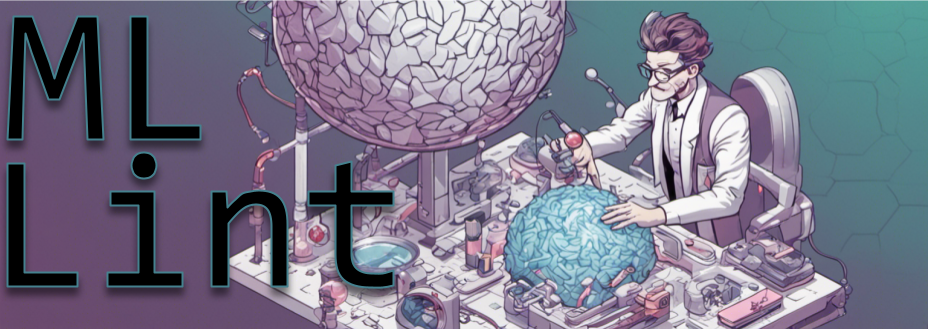
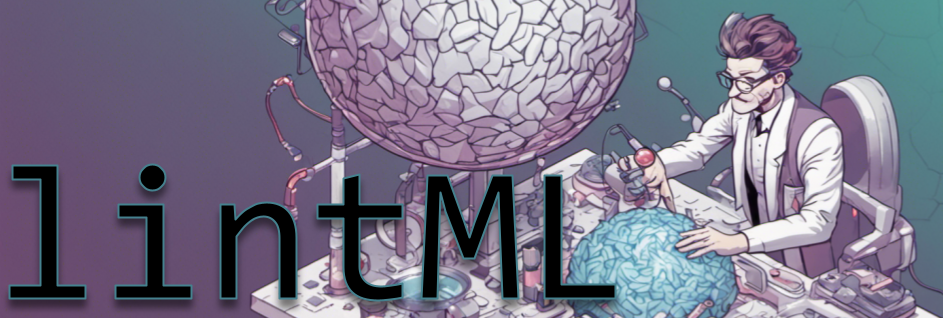
fix name collision

diff --git a/lintML/lintML.py b/lintML/lintML.py
@@ -11,7 +11,7 @@ from report import Report
 from utils import is_valid_directory
 
 
-class MLLint:
+class lintML:
     def __init__(self, indir, outfile="obs/observation.avro"):
         self.indir = Path(indir)
         self.outfile = Path(outfile)
@@ -52,7 +52,7 @@ class MLLint:
 
 if __name__ == "__main__":
     parser = argparse.ArgumentParser(
-        prog="MLLint",
+        prog="lintML",
         description="Linter for ML training code",
         epilog="Have any rules we should add?",
     )
@@ -67,7 +67,7 @@ if __name__ == "__main__":
         "--full-report", action="store_true", help="Generate a full report"
     )
     args = parser.parse_args()
-    m = MLLint(indir=Path(args.dir).resolve())
+    m = lintML(indir=Path(args.dir).resolve())
     loop = asyncio.get_event_loop()
     creds, code_findings = loop.run_until_complete(m.get_observations())
     print(m.generate_report(creds, code_findings, args.full_report))

diff --git a/lintML/semgrep.py b/lintML/semgrep.py
@@ -63,7 +63,7 @@ async def run_semgrep(client: docker.DockerClient, dir: Path) -> List[Observatio
         Any exceptions raised by Docker operations, JSON decoding, or Observation creation.
     """
     tmpdir = await semgrep_prep(dir)
-    rule_root = "https://raw.githubusercontent.com/JosephTLucas/ml-lint/main/MLLint/semgrep_rules/ready/"
+    rule_root = "https://raw.githubusercontent.com/JosephTLucas/lintML/main/lintML/semgrep_rules/ready/"
     rules = ["",
              "huggingface-remote-code.yaml",
              'pickles.yaml',

diff --git a/README.md b/README.md
@@ -1,14 +1,14 @@
-# MLLint
+# lintML
 
 ![](banner.png)
 
 _The security linter for environments that shouldn't need linting._
 
-Linters (and let's be honest with ourselves, any measures of code quality) have long been reserved for production environments. But we've increasingly seen that the most impactful machine learning attacks happen during **training time.** Traditional linters often rely on CI/CD pipelines or git commit hooks and are often opinionated on things like code formatting. However, many research projects never touch git until they are far down the path of productionization and researchers write some of the sloppiest code known to humankind (in the name of science). So how can we arm researchers with quick sanity checks for their research code? MLLint.
+Linters (and let's be honest with ourselves, any measures of code quality) have long been reserved for production environments. But we've increasingly seen that the most impactful machine learning attacks happen during **training time.** Traditional linters often rely on CI/CD pipelines or git commit hooks and are often opinionated on things like code formatting. However, many research projects never touch git until they are far down the path of productionization and researchers write some of the sloppiest code known to humankind (in the name of science). So how can we arm researchers with quick sanity checks for their research code? lintML.
 
 ## Philosophy
 
-MLLint is a simple python script (backed by dockerized security tools) that can give researchers and security teams some quick insight into potential risk in machine learning research projects. It checks for valid, plaintext credentials and uses static analysis to identify risky code patterns.
+lintML is a simple python script (backed by dockerized security tools) that can give researchers and security teams some quick insight into potential risk in machine learning research projects. It checks for valid, plaintext credentials and uses static analysis to identify risky code patterns.
 
 Things we check for:
 
@@ -27,28 +27,28 @@ _(WIP)_
 Things we **don't** check for:
 - Formatting 
 
-Many linters measure quality by the breadth of rules, leading to complicated CI/CD configurations where we're ignoring their flashing lights. With a linter for research and machine learning training code, we want to be high signal/low noise. Every rule represents a real exploitable vulnerability that you should _seriously_ consider engineering around to preserve the integrity of your research. MLLint shouldn't distract you from getting stuff done. Ideally, most times when you run MLLint, you'll have no alerts. :thumbsup:
+Many linters measure quality by the breadth of rules, leading to complicated CI/CD configurations where we're ignoring their flashing lights. With a linter for research and machine learning training code, we want to be high signal/low noise. Every rule represents a real exploitable vulnerability that you should _seriously_ consider engineering around to preserve the integrity of your research. lintML shouldn't distract you from getting stuff done. Ideally, most times when you run lintML, you'll have no alerts. :thumbsup:
 
 ## Compatibility
 
-Currently MLLint is focused on `.py` and `.ipynb` files (based solely on the author's personal preferences). TruffleHog supported both of these natively, but MLLint uses [nbconvert](https://nbconvert.readthedocs.io/en/latest/) under the hood to support Semgrep on `.ipynb`.
+Currently lintML is focused on `.py` and `.ipynb` files (based solely on the author's personal preferences). TruffleHog supported both of these natively, but lintML uses [nbconvert](https://nbconvert.readthedocs.io/en/latest/) under the hood to support Semgrep on `.ipynb`.
 
 ## Foundations
 
-The checks in MLLint are powered by [TruffleHog](https://github.com/trufflesecurity/trufflehog) and [Semgrep](https://semgrep.dev/). Since MLLint wraps these tools in their docker containers, the first execution may take longer as those containers are initially pulled.
+The checks in lintML are powered by [TruffleHog](https://github.com/trufflesecurity/trufflehog) and [Semgrep](https://semgrep.dev/). Since lintML wraps these tools in their docker containers, the first execution may take longer as those containers are initially pulled.
 
-MLLint uses [Apache Avro](https://avro.apache.org/) for data serialization to support fast operations and evolving schemas.
+lintML uses [Apache Avro](https://avro.apache.org/) for data serialization to support fast operations and evolving schemas.
 
 ## Getting Started
 
 1. `pip install -r requirements.txt`
-2. `python MLLint.py <your directory>` -- If you don't specify a directory, MLLint will default to the current working directory.
+2. `python lintML.py <your directory>` -- If you don't specify a directory, lintML will default to the current working directory.
 
-When run from the CLI, MLLint will return a summary report.
+When run from the CLI, lintML will return a summary report.
 
 ![](results.png)
 
-3. To get a more detailed report, use the `--full-report` argument (`python MLLint.py <your directory> --full-report`). Results are also persisted in `.avro` for later analysis and manipulation in your favorite data analysis tools.
+3. To get a more detailed report, use the `--full-report` argument (`python lintML.py <your directory> --full-report`). Results are also persisted in `.avro` for later analysis and manipulation in your favorite data analysis tools.
 
 ## Requirements
 
@@ -60,4 +60,4 @@ To immediately contribute security outcomes, consider contributing new rules to 
 
 Please also report any false positives or negatives to help us fine-tune rules or create new ones.
 
-To add a new security tool to MLLint, simply write an async function that returns [Observations](observation.py). PRs welcome.
+To add a new security tool to lintML, simply write an async function that returns [Observations](observation.py). PRs welcome.
